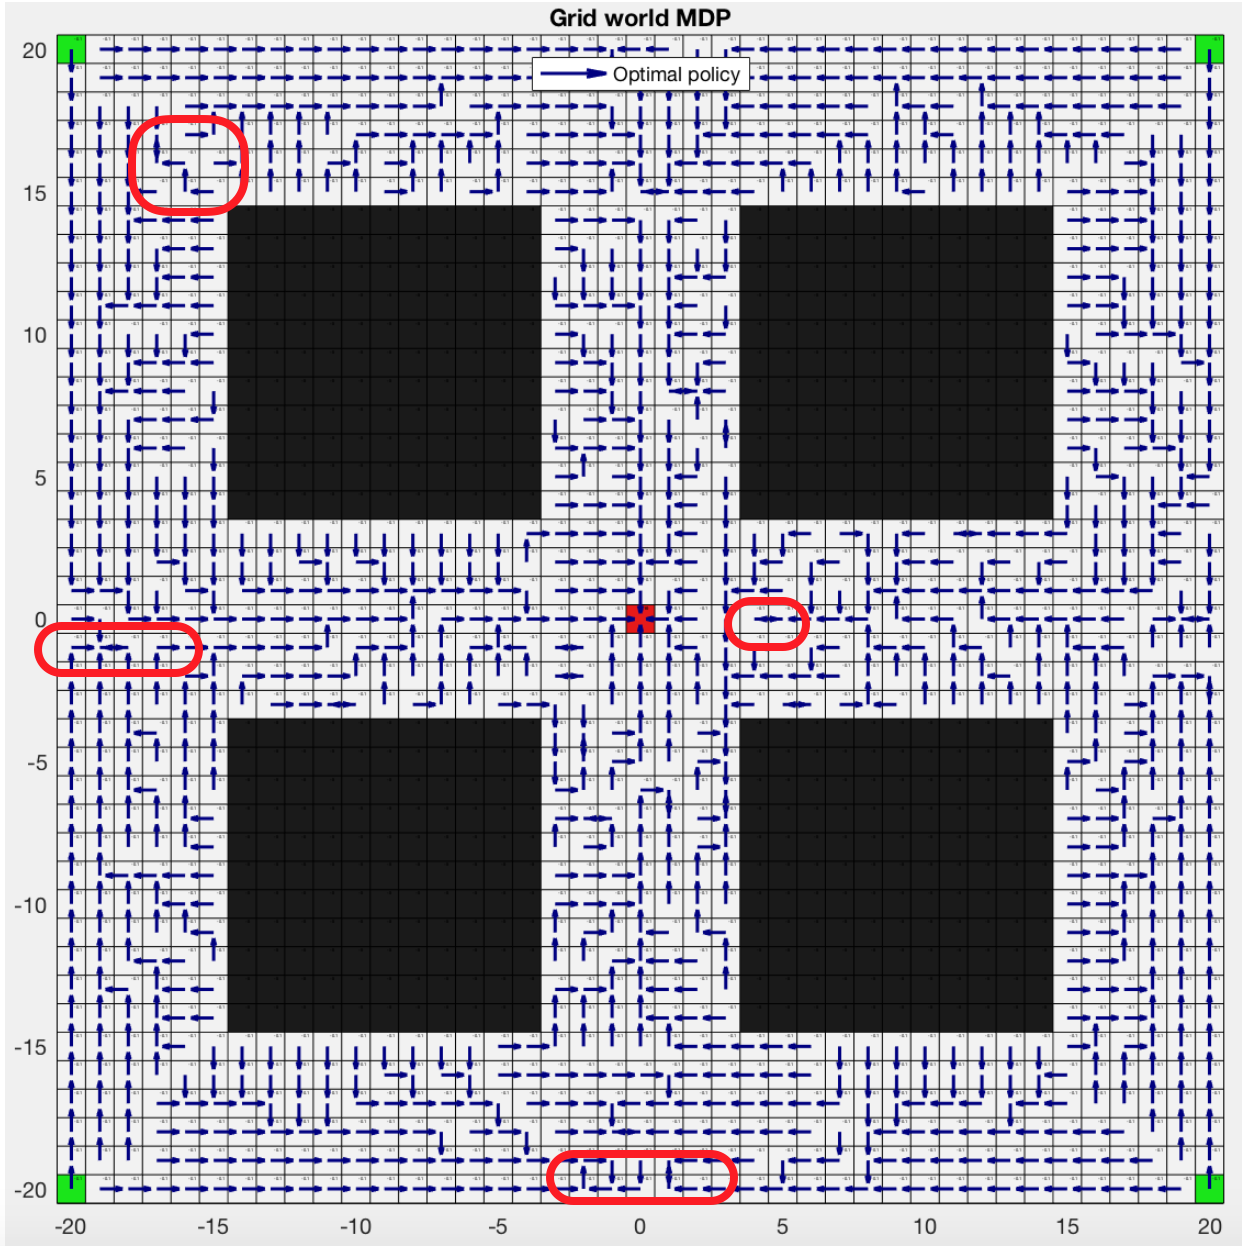
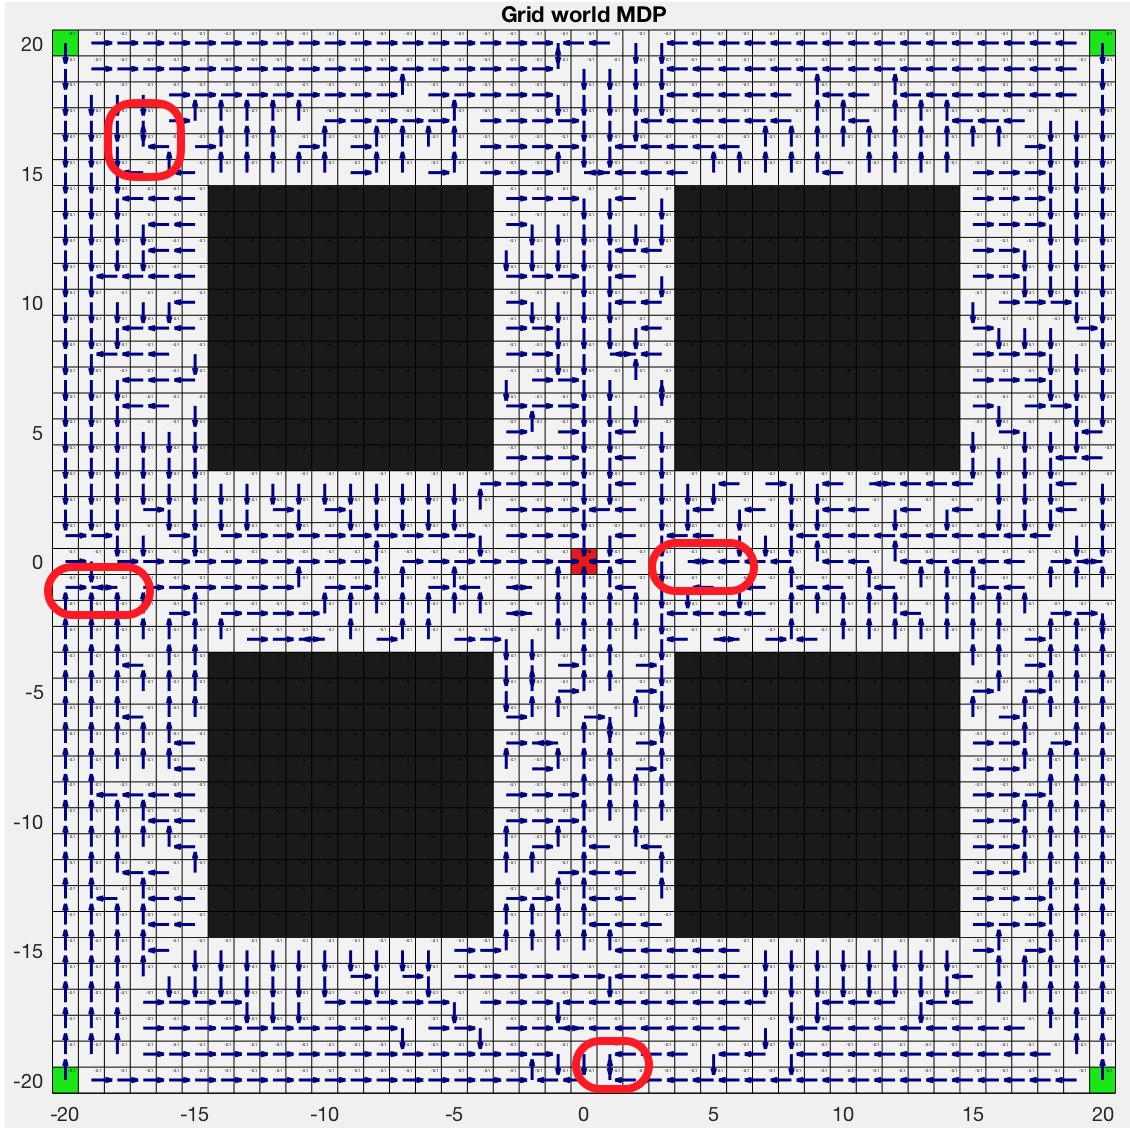
Modifies plots and methods for better results

Changed region(s): [[0.0, 0.0, 0.9912, 0.9929]]

diff --git a/code/methods/ac_imitation_learning.m b/code/methods/ac_imitation_learning.m
@@ -58,31 +58,34 @@ while (k<max_iter && delta>stop_criterion)
             next_alpha = mdp.states(next_state_index).alpha; next_beta = mdp.states(next_state_index).beta;
             [next_action_index,next_mentor_action_index] = comply_or_defy_beta(pi_m(next_state_index),mdp.states(next_state_index).actions,temperature,next_alpha,next_beta);
             
-            % compliance update 
-            n_qvalue = mdp.states(next_state_index).actions(next_action_index).value;
-            dd = n_qvalue + reward - mdp.states(state_index).actions(mentor_action_index).value;
-            %dd = n_qvalue + reward - max([mdp.states(state_index).actions.value]);
-            if (action_index==mentor_action_index)
-                mdp.states(state_index).alpha = alpha + eps*max(dd,0);
-                mdp.states(state_index).beta = beta + eps*max(-dd,0);
-                %mdp.states(state_index).alpha = alpha + max(sign(dd),0);
-                %mdp.states(state_index).beta = beta + max(-sign(dd),0);
-            else
-                mdp.states(state_index).beta = beta + eps*max(dd,0);
-                mdp.states(state_index).alpha = alpha + eps*max(-dd,0);
-                %mdp.states(state_index).beta = beta + max(sign(dd),0);
-                %mdp.states(state_index).alpha = alpha + max(-sign(dd),0);
+            if (k>1) % avoiding minibatch weird effects for init
+                % compliance update
+                n_qvalue = mdp.states(next_state_index).actions(next_action_index).value;
+                dd = n_qvalue + reward - mdp.states(state_index).actions(mentor_action_index).value;
+                %dd = n_qvalue + reward - max([mdp.states(state_index).actions.value]);
+                if (k>50)
+                    if (action_index==mentor_action_index)
+                        %mdp.states(state_index).alpha = alpha + eps*max(dd,0);
+                        %mdp.states(state_index).beta = beta + eps*max(-dd,0);
+                        mdp.states(state_index).alpha = alpha + eps*max(sign(dd),0);
+                        mdp.states(state_index).beta = beta + eps*max(-sign(dd),0);
+                    else
+                        %mdp.states(state_index).beta = beta + eps*max(dd,0);
+                        %mdp.states(state_index).alpha = alpha + eps*max(-dd,0);
+                        mdp.states(state_index).beta = beta + eps*max(sign(dd),0);
+                        mdp.states(state_index).alpha = alpha + eps*max(-sign(dd),0);
+                    end
+                end
+                
+                % mdp update
+                qvalue = mdp.states(state_index).actions(action_index).value;
+                lrate = init_lr/(counts(state_index,action_index)^(0.55));
+                u_qvalue = (1-lrate)*qvalue + lrate*(reward + mdp.discount*n_qvalue);
+                counts(state_index,action_index) = counts(state_index,action_index)+1;
+                delta = max(delta,abs(u_qvalue-qvalue));
+                qvalue = u_qvalue;
+                mdp.states(state_index).actions(action_index).value = qvalue;
             end
-
-            % mdp update
-            qvalue = mdp.states(state_index).actions(action_index).value;
-            lrate = init_lr/(counts(state_index,action_index)^(0.55));
-            u_qvalue = (1-lrate)*qvalue + lrate*(reward + mdp.discount*n_qvalue);
-            counts(state_index,action_index) = counts(state_index,action_index)+1;
-            delta = max(delta,abs(u_qvalue-qvalue));
-            qvalue = u_qvalue;
-            mdp.states(state_index).actions(action_index).value = qvalue;
-            
             % update current step and action
             action_index = next_action_index;
             state_index  = next_state_index;
@@ -94,7 +97,7 @@ while (k<max_iter && delta>stop_criterion)
     deltas(k) = delta;
     temperature = temperature*temperature_mult_factor;
     cum_reward_per_episode(k) = cum_reward/mini_batch_size;
-    eps = eps*1.5;
+    %eps = eps*1.5;
     k = k+1
 end
 

diff --git a/code/misc/complianceplots.m b/code/misc/complianceplots.m
@@ -13,9 +13,9 @@ addpath(genpath('data/'));
 %% loads data 
 %load('opt_compliance');
 %load('subopt1_compliance');
-%load('subopt2_compliance');
+load('subopt2_compliance');
 %load('subopt3_compliance');
-load('subopt3_learnt_compliance');
+%load('subopt3_learnt_compliance');
 load('optimal_ar');
 load('sarsa_mentor_ar.mat');
 optimal_ar = cum_reward_per_episode;
@@ -23,13 +23,12 @@ mentor_learning_ar = lpf(mentor_learning_ar,0.3);
 
 %% plots
 n = min([size(learner_ar,1),size(optimal_ar,1),size(mentor_ar,1)])-1;
-p1 = plot(lpf(learner_ar(1:n),0.2),'LineWidth',1.8,'Color',[1,0.3,0.1]); hold on;
+p1 = plot(lpf(learner_ar(1:n),0.3),'LineWidth',1.8,'Color',[1,0.3,0.1]); hold on;
+p2 = plot(lpf(mentor_ar(1:n),0.1),'Color',[0.05,0.3,0.8],'LineWidth',2);
 p3 = plot(mean(optimal_ar)*ones(n,1),'-.','LineWidth',3,'Color','black');
-load('subopt3_compliance');
-p4 = plot(lpf(learner_ar(1:n),0.2),'LineWidth',1.8,'Color',[1,0.5,0.1]);
-p2 = plot(lpf(mentor_ar(1:n),0.05),'Color',[0.05,0.3,0.8],'LineWidth',2);
-
-%p4 = plot(mentor_learning_ar(1:n),'LineWidth',2,'Color',[0.4,0.8,1]);
-%p5 = plot(50, mentor_learning_ar(50), 'sr','MarkerFaceColor','red','MarkerSize',10);
-h = legend([p1,p2,p3,p4],'Learner averaged reward per episode','Mentor averaged reward per episode','Optimal policy mean reward','Initial learning curve','Mentor policy before greedization','Location','SouthEast');
+p4 = plot(mentor_learning_ar(1:n),'LineWidth',2,'Color',[0.4,0.8,1]);
+p5 = plot(120, mentor_learning_ar(120), 'sr','MarkerFaceColor','red','MarkerSize',10);
+h = legend([p1,p2,p3,p4,p5],'Learner averaged reward per episode','Mentor averaged reward per episode','Optimal policy mean reward','Initial learning curve','Mentor policy before greedization','Location','SouthEast');
 set(h,'FontSize',12);
+xlabel('Number of iterations');
+ylabel('Average reward');

diff --git a/code/methods/naive_imitation_learning.m b/code/methods/naive_imitation_learning.m
@@ -56,14 +56,16 @@ while (k<max_iter && delta>stop_criterion)
             next_action_index = comply_or_defy_bern(pi_m(next_state_index),mdp.states(next_state_index).actions,temperature,p);
             
             % update
-            qvalue = mdp.states(state_index).actions(action_index).value;
-            n_qvalue = mdp.states(next_state_index).actions(next_action_index).value;
-            lrate = alpha/(counts(state_index,action_index)^(0.51));
-            u_qvalue = (1-lrate)*qvalue + lrate*(reward + mdp.discount*n_qvalue);
-            counts(state_index,action_index) = counts(state_index,action_index)+1;
-            delta = max(delta,abs(u_qvalue-qvalue));
-            qvalue = u_qvalue;
-            mdp.states(state_index).actions(action_index).value = qvalue;
+            if (k>1) % avoid minibatch undesired visual effects 
+                qvalue = mdp.states(state_index).actions(action_index).value;
+                n_qvalue = mdp.states(next_state_index).actions(next_action_index).value;
+                lrate = alpha/(counts(state_index,action_index)^(0.51));
+                u_qvalue = (1-lrate)*qvalue + lrate*(reward + mdp.discount*n_qvalue);
+                counts(state_index,action_index) = counts(state_index,action_index)+1;
+                delta = max(delta,abs(u_qvalue-qvalue));
+                qvalue = u_qvalue;
+                mdp.states(state_index).actions(action_index).value = qvalue;
+            end
             
             % update current step and action
             action_index = next_action_index;
@@ -76,7 +78,7 @@ while (k<max_iter && delta>stop_criterion)
     end
     deltas(k) = delta;
     cum_reward_per_episode(k) = cum_reward/mini_batch_size;
-    k = k+1
+    k = k+1;
     p = 0.99*p;
 end
 

diff --git a/code/utils/configure_mdp.m b/code/utils/configure_mdp.m
@@ -77,15 +77,15 @@ switch model_name
         mdp.ql_lambda.lambda = 0.8;
         % Naive imitation learning 
         mdp.naive_il.max_iter = 400;
-        mdp.naive_il.init_temp = 4;
-        mdp.naive_il.p = 0.95;
-        mdp.naive_il.temp_mult = 0.99;
+        mdp.naive_il.init_temp = 0.5;
+        mdp.naive_il.p = 0.9;
+        mdp.naive_il.temp_mult = 0.98;
         mdp.naive_il.stop_criterion = -0.1;
         mdp.naive_il.default_value = 0;
         mdp.naive_il.init_lr = 1;
         % Actor critic imitation learning 
         mdp.ac_il.init_alpha = 0.9;
-        mdp.ac_il.init_beta = 0;
+        mdp.ac_il.init_beta = 0.1;
         mdp.ac_il.default_value = 0;
         mdp.ac_il.init_temp = 0.5;
         mdp.ac_il.stop_criterion = -0.1;

diff --git a/code/main.m b/code/main.m
@@ -40,7 +40,7 @@ toc
 %draw_policy(pi_star,mdp.states);
  
 %% imitation reinforcement learning methods
-  load('misc/policy/subopt_policy_3.mat','pi'); pi_m = pi;
+  load('misc/policy/subopt_policy_2.mat','pi'); pi_m = pi;
   [pi_star,mdp] = ac_imitation_learning(pi_m, mdp);
 
 
